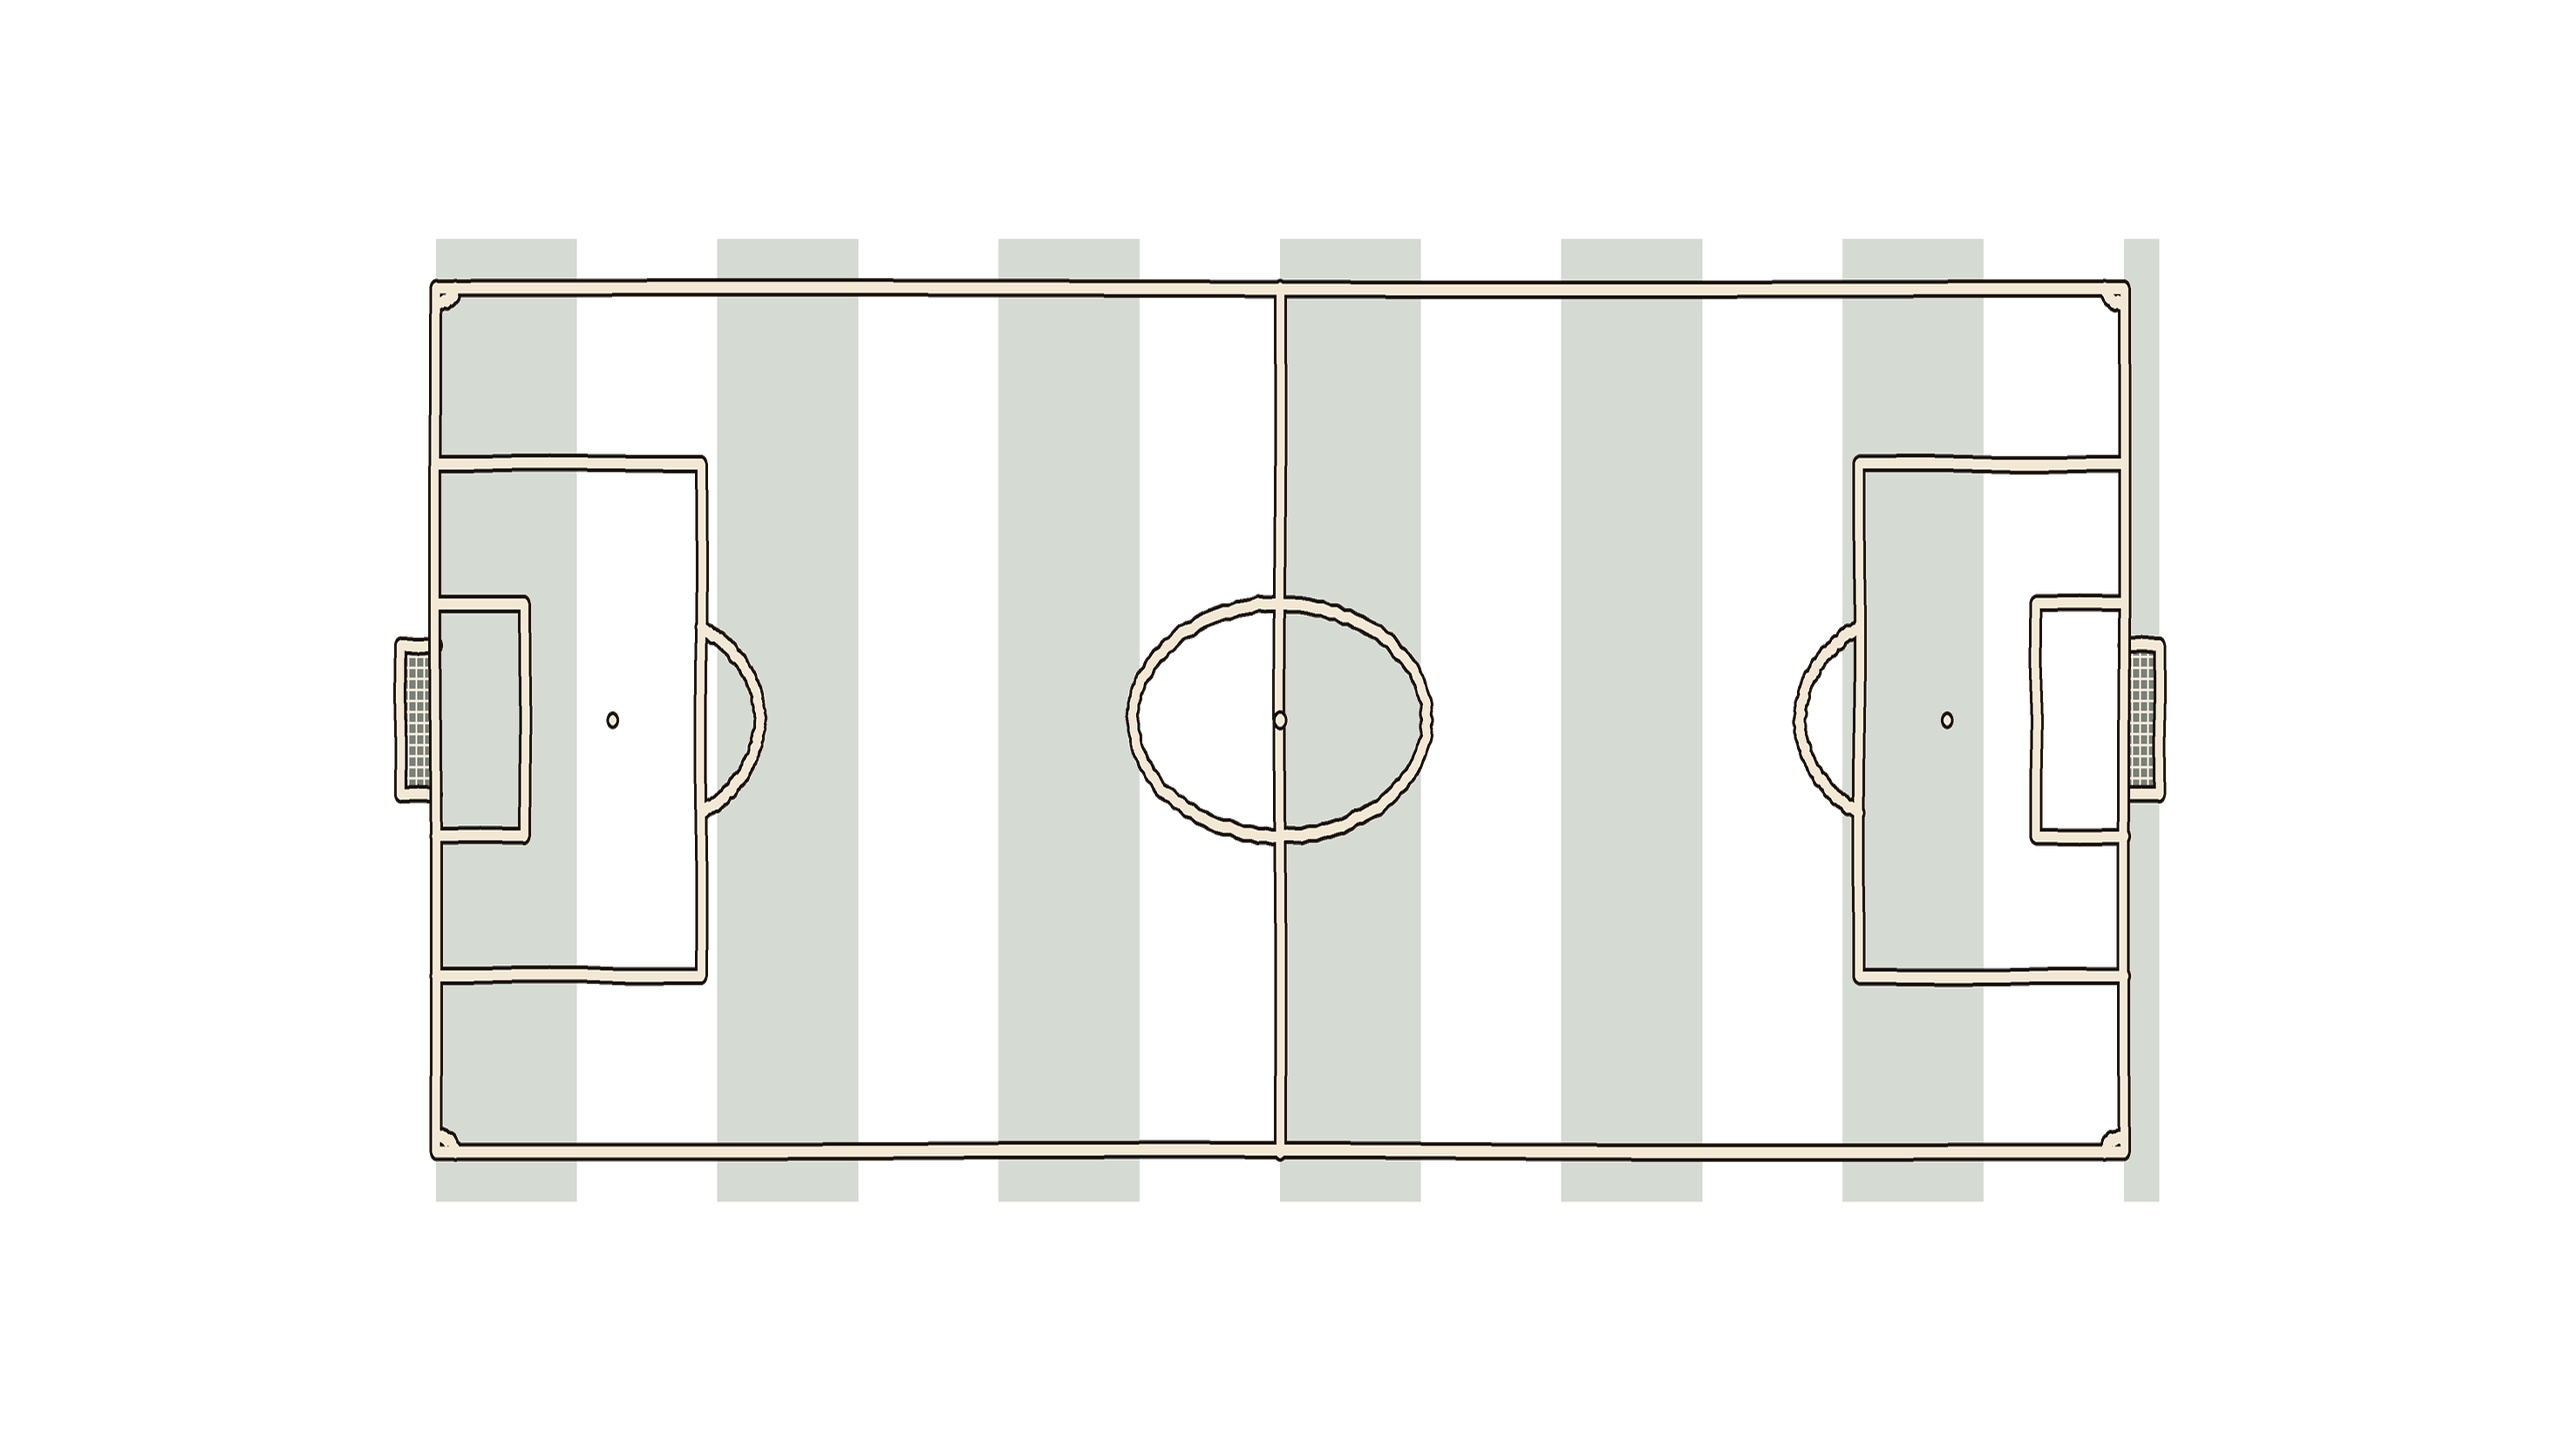
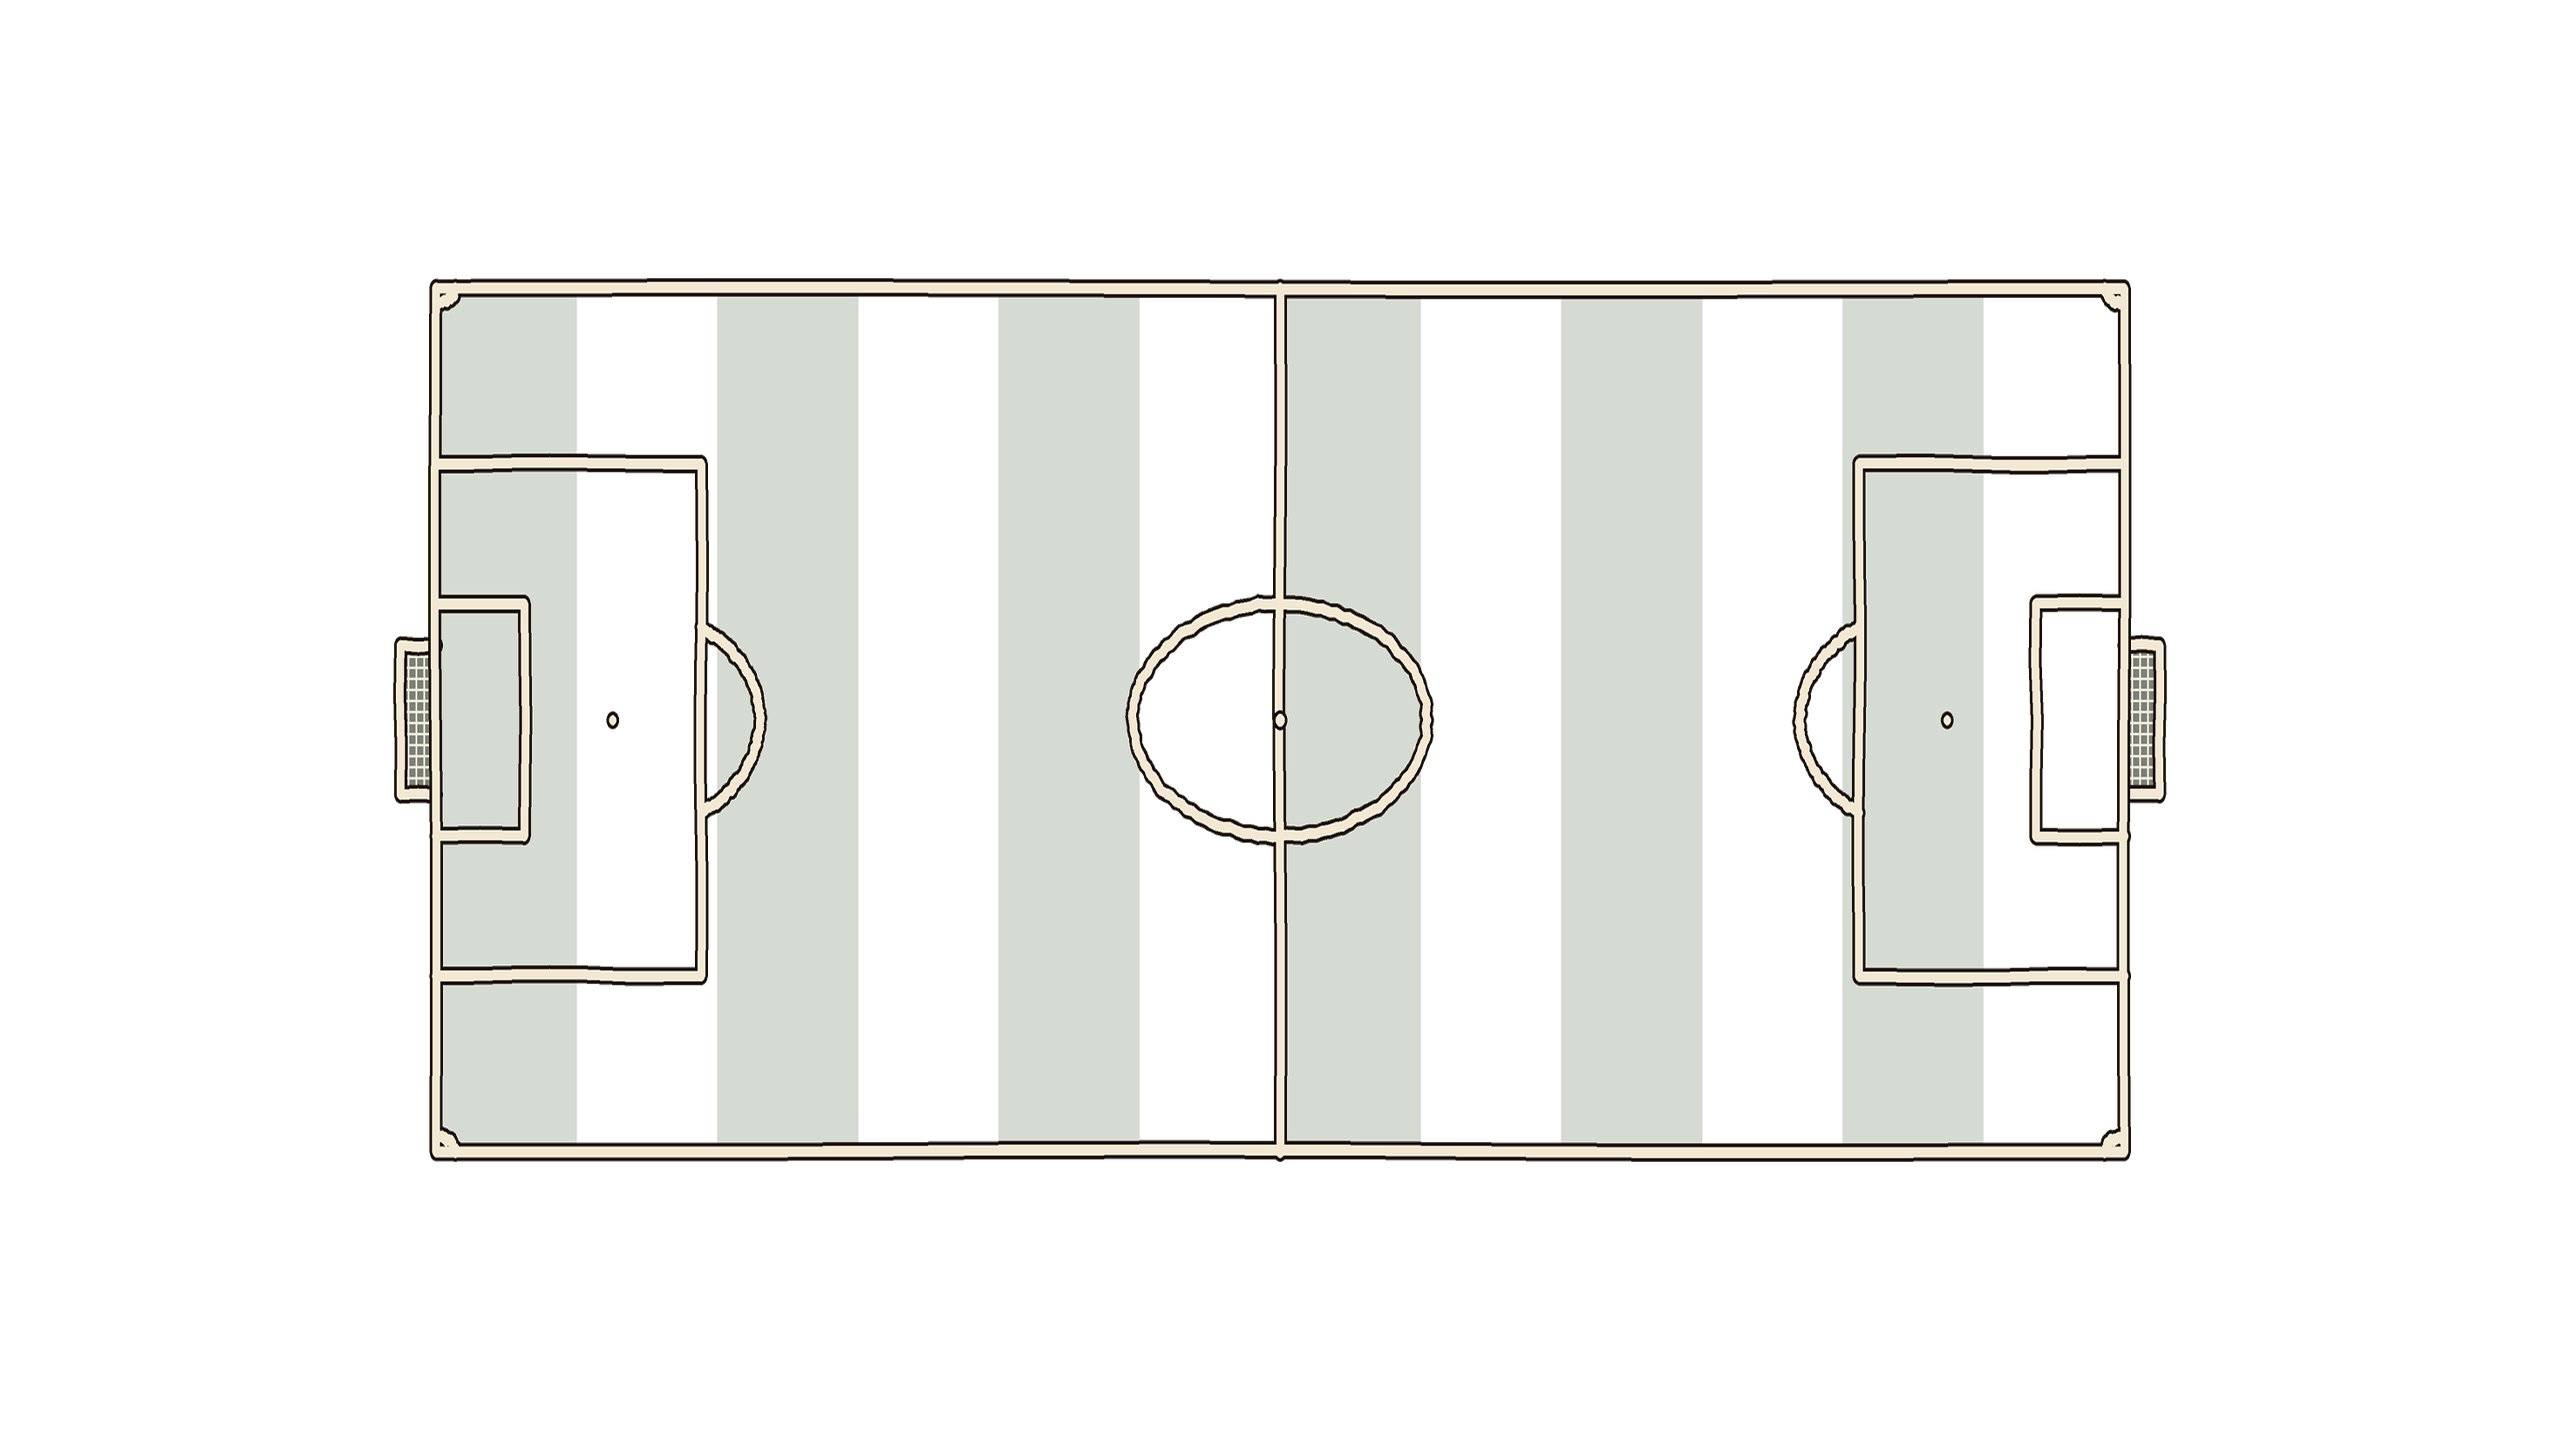
Match: mowing stripes stop at the white lines
Claude-Session: https://claude.ai/code/session_01GrbNTwVienMcpmsk1Pgq12

diff --git a/tools/make_village_pitch.py b/tools/make_village_pitch.py
@@ -53,7 +53,7 @@ INK_W = 3                          # ink each side of the cream
 WOBBLE = 1.6                       # how far a hand-drawn line wanders
 STRIPES = 12                       # mowing stripes between the goal lines
 STRIPE = (20, 50, 5, 46)           # the darker stripe, see-through
-RUNOFF = 40                        # stripes reach this far past the lines
+RUNOFF = 0                         # stripes reach this far past the lines (0 = they stop at the white lines, Anthony 23 Oct)
 NET = (243, 232, 212, 200)
 SS = 2                             # drawn at x2, then smoothed down
 
@@ -156,7 +156,7 @@ def main():
 
     # Mowing stripes, flat and see-through so the drawn grass shows.
     band = (R - L) / STRIPES
-    for i in range(-1, STRIPES + 1):
+    for i in range(STRIPES):
         if i % 2:
             continue
         x0 = max(L - RUNOFF, L + i * band)

diff --git a/guides/DESIGNER_MANUAL.md b/guides/DESIGNER_MANUAL.md
@@ -4330,7 +4330,8 @@ switch matches to this village with the straight-on pitch."
 - The lines are new: cream with a black ink edge, a little hand-wobbly, the
   centre circle and penalty arcs drawn as ovals because the pitch is seen at a
   slant, small drawn goals, and flat mowing stripes over the village's own
-  drawn grass. They are `assets/field/soccerfield_village.png`
+  drawn grass. The stripes stop at the white lines (RUNOFF 0 in the script,
+  your ask 23 Oct), so none run outside the pitch. They are `assets/field/soccerfield_village.png`
   (`PitchView.csv pitch_image`), made by `tools/make_village_pitch.py`.
   Move a corner in the CSV and run it again so the lines follow.
 - `smooth_pictures` true draws both smoothed, as drawn art should be.
